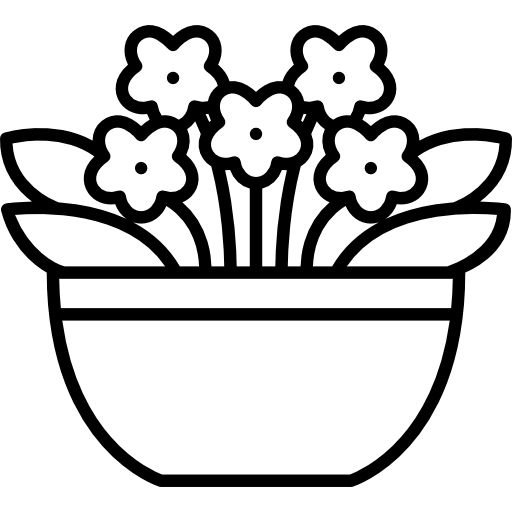
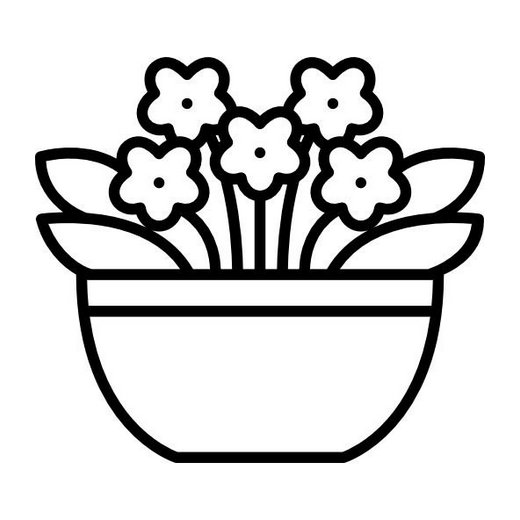
feat: implement product corting

Changed region(s): [[0.0, 0.0312, 1.0, 0.9688]]

diff --git a/flower-shop/src/utils/transformData.ts b/flower-shop/src/utils/transformData.ts
@@ -1,39 +1,36 @@
 import { FormattedProduct, Product } from "../types/types";
 
 export const transformProducts = (products: Product[]): FormattedProduct[] => {
-  return products.map((product) => {
-    const name =
-      typeof product.name === "string"
-        ? { "en-US": product.name }
-        : product.name;
-    const description =
-      typeof product.description === "string"
-        ? { "en-US": product.description }
-        : product.description || { "en-US": "" };
-
-    const key = product.key || "";
-
-    const categories =
-      product.categories?.map((c) => ({
-        id: c.id,
-        typeId: c.typeId,
-      })) || [];
+  return products.map(product => {
+     const name = typeof product.name === 'string' 
+      ? { 'en-US': product.name }
+      : product.name;
+        const description = typeof product.description === 'string'
+      ? { 'en-US': product.description }
+      : product.description || { 'en-US': '' };
+    
+    const key = product.key || '';
+    
+    const categories = product.categories?.map(c => ({
+      id: c.id,
+      typeId: c.typeId
+    })) || [];
 
     return {
       id: product.id,
       key,
-      name,
+      name, 
       description,
-      price: product.masterVariant?.prices?.[0]?.value?.centAmount
-        ? product.masterVariant.prices[0].value.centAmount / 100
+      price: product.masterVariant?.prices?.[0]?.value?.centAmount 
+        ? product.masterVariant.prices[0].value.centAmount / 100 
         : 0,
-      image: product.masterVariant?.images?.[0]?.url || null,
+        images: product.masterVariant?.images || null,
       attributes: {
-        shortDescription: product.masterVariant?.attributes?.find(
-          (attr) => attr.name === "shortDescription",
-        )?.value as string | undefined,
+        size: product.masterVariant?.attributes?.find(attr => attr.name === 'size')?.value as number[] | undefined,
+        shortDescription: product.masterVariant?.attributes
+          ?.find(attr => attr.name === 'shortDescription')?.value as string | undefined
       },
-      categories,
+      categories
     };
   });
 };

diff --git a/flower-shop/src/components/Catalog/catalog.tsx b/flower-shop/src/components/Catalog/catalog.tsx
@@ -4,10 +4,11 @@ import { useEffect, useMemo, useState } from "react";
 import { executeApiRequest } from "../../utils/universal";
 import { transformProducts } from "../../utils/transformData";
 import { filterByCategory } from "../../utils/filters";
-import { FormattedProduct } from "../../types/types";
+import { FormattedProduct, SortOption } from "../../types/types";
 import { fetchCategoryIds } from "../../utils/categories";
 import { useSearchParams, useNavigate } from "react-router-dom";
 import "./catalog.css";
+import { sortProducts } from "../../utils/sort";
 
 export const Catalog = () => {
   const [params] = useSearchParams();
@@ -22,6 +23,7 @@ export const Catalog = () => {
   }>({ mainCategories: [], subCategories: [] });
   const [activeCategoryId, setActiveCategoryId] = useState<string | null>(null);
   const [isMainCategory, setIsMainCategory] = useState<boolean>(true);
+  const [sortOption, setSortOption] = useState<SortOption>('price-asc');
 
   useEffect(() => {
     const loadData = async () => {
@@ -44,11 +46,11 @@ export const Catalog = () => {
     loadData();
   }, []);
 
-  const filteredProducts = useMemo(
-    () => filterByCategory(formattedProducts, activeCategoryId, isMainCategory),
-    [formattedProducts, activeCategoryId, isMainCategory],
-  );
-
+  const filteredProducts = useMemo(() => {
+    const filtered = filterByCategory(formattedProducts, activeCategoryId, isMainCategory);
+    return sortProducts(filtered, sortOption);
+  }, [formattedProducts, activeCategoryId, isMainCategory,sortOption]);
+  
   const selectedProduct = formattedProducts.find(
     (product) => product.id === productId,
   );
@@ -161,16 +163,32 @@ export const Catalog = () => {
             setActiveCategoryId(null);
             setIsMainCategory(true);
           }}
-          className={`show-all-button ${!activeCategoryId ? "active" : ""}`}
+          className={`catalog__showAll ${!activeCategoryId ? "active" : ""}`}
         >
           All our plants
         </button>
+        <div className="catalog__sorting">
+          <label htmlFor="sort-select">Sort by: </label>
+          <select
+            id="sort-select"
+            value={sortOption}
+            onChange={(e) => setSortOption(e.target.value as SortOption)}
+            className="catalog__select"
+          >
+            <option value="price-asc">Price (Low to High)</option>
+            <option value="price-desc">Price (High to Low)</option>
+            <option value="name-asc">Name (A-Z)</option>
+            <option value="name-desc">Name (Z-A)</option>
+            <option value="size-asc">Size (Small to Large)</option>
+            <option value="size-desc">Size (Large to Small)</option>
+          </select>
+        </div>
         <div className="catalog__list list">
           {filteredProducts.map((product) => (
             <Card
               key={product.id}
               id={product.id}
-              image={product.image}
+              image={product.images?.[0]?.url || null}
               name={product.name}
               price={product.price}
               shortDescription={product.attributes.shortDescription}

diff --git a/flower-shop/src/components/Catalog/catalog.css b/flower-shop/src/components/Catalog/catalog.css
@@ -78,8 +78,13 @@
   cursor: pointer;
   text-align: left;
   padding: 5px;
+  font-weight: normal;
+  transition: all 0.5s ease-in-out;
 }
-
+.categories__title-button:hover,
+.categories__subcategory-button:hover {
+  font-weight: 600;
+}
 .categories__subcategory {
   text-align: left;
   padding: 5px;
@@ -110,16 +115,31 @@ li {
   font-weight: bold;
 }
 
-.show-all-button {
+.catalog__sorting {
+  margin-bottom: 20px;
+  display: flex;
+  align-items: center;
+  gap: 10px;
+}
+#sort-select {
+  padding: 8px 12px;
+  border-radius: 4px;
+  border: 1px solid #ddd;
+  background-color: white;
+  cursor: pointer;
+}
+
+.catalog__showAll {
   font-family: Montserrat;
   margin: 30px;
   padding: 12px;
   border-radius: 6px;
   background-color: white;
   border: none;
-}
-
-.show-all-button:hover {
-  box-shadow: 4px 4px 8px #e7e7e7;
   cursor: pointer;
+  transition: all 0.5s ease-in-out;
+}
+.catalog__showAll:hover {
+  box-shadow: 4px 4px 8px #e7e7e7;
+ 
 }

diff --git a/flower-shop/src/types/types.ts b/flower-shop/src/types/types.ts
@@ -35,19 +35,19 @@ export type BurgerProps = {
   className: string;
   iconColor: string;
 };
-export type TokenData = {
+export type TokenData ={
   access_token: string;
   expires_in?: number;
   token_type?: string;
-};
-export type ApiRequestParams = {
-  endpoint: string;
-  method?: "GET" | "POST" | "DELETE";
-  path?: string;
-  query?: Record<string, string>;
-  body?: unknown;
-  isAuthRequest?: boolean;
-};
+}
+export type ApiRequestParams ={
+  endpoint: string; 
+  method?: 'GET' | 'POST' | 'DELETE'; 
+  path?: string; 
+  query?: Record<string, string>; 
+  body?: unknown; 
+  isAuthRequest?: boolean; 
+}
 
 export type Product = {
   id: string;
@@ -80,14 +80,15 @@ export type FormattedProduct = {
   name: Record<string, string>;
   description: Record<string, string>;
   price: number;
-  image: string | null;
+  images: Array<{ url: string }> | null;
   attributes: {
+    size?: number[];
     shortDescription?: string;
-    [key: string]: string | number | boolean | undefined;
+    [key: string]: unknown;
   };
   categories: Array<{
     id: string;
-    typeId: string;
+    typeId: string; 
   }>;
 };
 export type CardProps = {
@@ -114,3 +115,5 @@ export type Category = {
   slug: string;
   description?: string;
 };
+
+export type SortOption = 'price-asc' | 'price-desc' | 'name-asc' | 'name-desc' | 'size-asc' | 'size-desc';

diff --git a/flower-shop/src/components/card/detailedCard.tsx b/flower-shop/src/components/card/detailedCard.tsx
@@ -12,20 +12,17 @@ type DetailedCardProps = {
 };
 
 export const DetailedCard = ({ product, onClose }: DetailedCardProps) => {
-  const { name, description, image, price, attributes } = product;
+  const { name, description, images, price } = product;
 
   const fallbackImg = "img/fallback.jpg";
   const minImgCount = 3;
-  const images = Array.isArray(attributes?.images)
-    ? attributes.images
-    : image
-      ? [image]
-      : [];
+  const imageUrls = images 
+        ? images.map(img => img.url)
+        : [];
 
-  while (images.length < minImgCount) {
-    images.push(fallbackImg);
-  }
-
+    while (imageUrls.length < minImgCount) {
+        imageUrls.push(fallbackImg);
+    }
   const sliderSettings = {
     dots: true,
     infinite: true,
@@ -52,13 +49,13 @@ export const DetailedCard = ({ product, onClose }: DetailedCardProps) => {
           <div className="detailed-card_content">
             <div className="detailed-card__slider">
               <Slider {...sliderSettings}>
-                {images.map((img, i) => (
+                {imageUrls.map((imgUrl, i) => (
                   <div
                     key={i}
                     className="slider-item"
                     onClick={handleImageClick}
                   >
-                    <img src={img} alt={`img-${i}`} className="slider-img" />
+                    <img src={imgUrl} alt={`img-${i}`} className="slider-img" />
                   </div>
                 ))}
               </Slider>
@@ -89,9 +86,9 @@ export const DetailedCard = ({ product, onClose }: DetailedCardProps) => {
       >
         <div className="zoom-slider-wrapper">
           <Slider {...sliderSettings}>
-            {images.map((img, i) => (
+            {imageUrls.map((imgUrl, i) => (
               <div key={i}>
-                <img src={img} alt={`zoom-${i}`} className="zoom-img" />
+                <img src={imgUrl} alt={`zoom-${i}`} className="zoom-img" />
               </div>
             ))}
           </Slider>

diff --git a/flower-shop/src/utils/sort.ts b/flower-shop/src/utils/sort.ts
@@ -1,0 +1,23 @@
+import { FormattedProduct, SortOption } from "../types/types";
+
+export const sortProducts = (products: FormattedProduct[], option: SortOption) => {
+
+  return [...products].sort((a, b) => {
+    switch (option) {
+      case 'price-asc':
+        return a.price - b.price;
+      case 'price-desc':
+        return b.price - a.price;
+      case 'name-asc':
+        return (a.name['en-US'] || '').localeCompare(b.name['en-US'] || '');
+      case 'name-desc':
+        return (b.name['en-US'] || '').localeCompare(a.name['en-US'] || '');
+      case 'size-asc':
+        return Number(a.attributes?.size?.[0]) - Number(b.attributes?.size?.[0]);
+      case 'size-desc':
+        return Number(b.attributes?.size?.[0]) - Number(a.attributes?.size?.[0]);;
+      default:
+        return 0;
+    }
+  });
+};

diff --git a/flower-shop/src/components/card/card.css b/flower-shop/src/components/card/card.css
@@ -1,6 +1,5 @@
 .card {
   width: 25%;
-  height: 450px;
   display: flex;
   flex-direction: column;
   justify-content: space-between;
@@ -47,7 +46,7 @@
 
 .card__imgWrapper {
   width: 100%;
-  height: 70%;
+  height: 85%;
   overflow: hidden;
   border-radius: 6px 6px 0 0;
 }